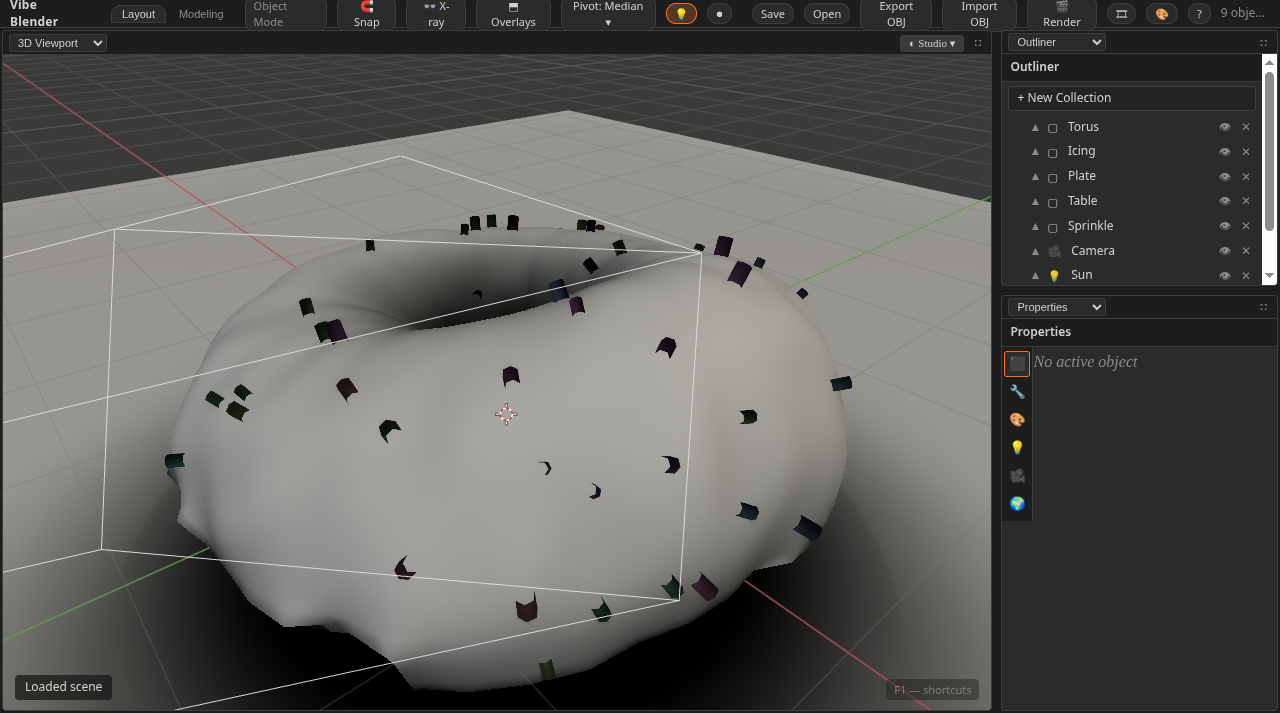
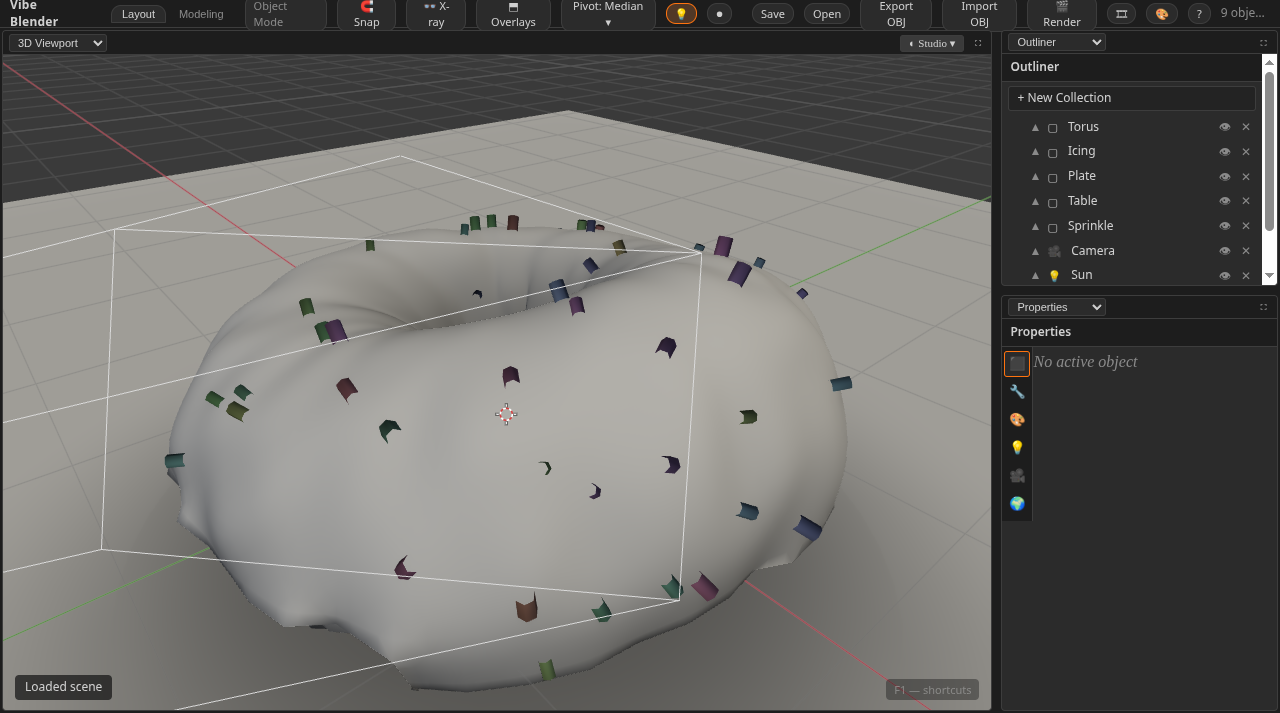
Object AO: trim method menu to 3, calibrate gains to match GTAO
Dithered + Cone removed (looks), Supersample x4 removed (lag). Keepers
renumbered: 0 Baseline (new default), 1 Hemisphere, 2 Exp-weighted, each
with a calibration gain (1.0 / 0.57 / 1.44) tuned on the cube-on-floor rig
so every method and Screen (GTAO) anchor the contact crease at the same
darkness for identical sliders — crease probes 363/366/366 vs GTAO 366.
New e2e check pins the four-way agreement (<30 spread); suites green on
SwiftShader + Vega 7, 678 units.

diff --git a/src/render/passes/aoPass.ts b/src/render/passes/aoPass.ts
@@ -423,6 +423,13 @@ export function objectAoTaps(samples: number): number {
   return Math.max(3, Math.min(16, Math.round(samples / 6)));
 }
 
+// Per-method calibration gains: raw estimator occlusion × gain, tuned on the
+// cube-on-floor reference so the three methods and GTAO agree at the default
+// sliders (see the Object AO entry in CLAUDE.md for the probe numbers).
+const GAIN_BASE = 1.0;
+const GAIN_HEMI = 0.57;
+const GAIN_EXP = 1.44;
+
 // Object AO (Ray's AO-Prototype technique, ported from ao-hybrid.html): instead
 // of hunting occluders in the depth buffer, march a WORLD-SPACE distance field
 // of the scene — per-object voxel SDFs in a 3D atlas (sdfAtlas.ts). The field
@@ -452,6 +459,9 @@ out vec4 outColor;
 
 const vec3 ATLAS = vec3(${SDF_ATLAS_W}.0, ${SDF_ATLAS_H}.0, ${SDF_ATLAS_D}.0);
 #define MAX_TAPS 16
+#define GAIN_BASE ${GAIN_BASE.toFixed(3)}
+#define GAIN_HEMI ${GAIN_HEMI.toFixed(3)}
+#define GAIN_EXP ${GAIN_EXP.toFixed(3)}
 
 vec3 viewPos(vec2 uv, float d) {
   vec4 ndc = vec4(uv * 2.0 - 1.0, d * 2.0 - 1.0, 1.0);
@@ -496,35 +506,20 @@ void basis(vec3 n, out vec3 t, out vec3 b) {
   b = cross(n, t);
 }
 
-// ---- the prototype's six estimators (aoLive), verbatim math ----
-float aoBase(vec3 p, vec3 n) {                 // 0 — linear march (bands; kept as reference)
+// ---- the prototype's estimators (aoLive), trimmed to the keepers ----
+// (Dithered / Cone cut on looks, Supersample x4 on perf, 2026-07-09.)
+// Each method's raw occlusion is scaled by a calibration GAIN so that at the
+// same Radius/Strength sliders all three read the same as each other AND as
+// the Screen (GTAO) mode on the reference cube-on-floor scene.
+float aoBase(vec3 p, vec3 n) {                 // 0 — linear march along the normal
   float occ = 0.0, sca = 1.0;
   for (int i = 0; i < MAX_TAPS; i++) { if (i >= u_taps) break;
     float h = u_bias + u_radius * float(i) / float(u_taps - 1);
     occ += (h - map(p + n * h)) * sca; sca *= 0.6;
   }
-  return clamp(1.0 - u_strength * occ, 0.0, 1.0);
+  return clamp(1.0 - u_strength * GAIN_BASE * occ, 0.0, 1.0);
 }
-float aoDither(vec3 p, vec3 n) {               // 1 — IGN offset: bands → fine grain
-  float r = ign(gl_FragCoord.xy), occ = 0.0, sca = 1.0;
-  for (int i = 0; i < MAX_TAPS; i++) { if (i >= u_taps) break;
-    float h = u_bias + u_radius * (float(i) + r) / float(u_taps);
-    occ += (h - map(p + n * h)) * sca; sca *= 0.82;
-  }
-  return clamp(1.0 - u_strength * occ, 0.0, 1.0);
-}
-float aoCone(vec3 p, vec3 n) {                 // 2 — continuous openness ratio, no taps
-  float res = 1.0, t = u_bias;
-  for (int i = 0; i < MAX_TAPS; i++) { if (i >= u_taps) break;
-    float d = map(p + n * t);
-    res = min(res, 6.0 * d / t);
-    t += clamp(d, 0.01, 0.10);
-    if (t > u_radius) break;
-  }
-  res = clamp(res, 0.0, 1.0);
-  return clamp(1.0 - u_strength * (1.0 - res), 0.0, 1.0);
-}
-float aoHemi(vec3 p, vec3 n) {                 // 3 — golden-angle hemisphere spread
+float aoHemi(vec3 p, vec3 n) {                 // 1 — golden-angle hemisphere spread
   vec3 t, b; basis(n, t, b);
   float a0 = ign(gl_FragCoord.xy) * 6.2831853, occ = 0.0, N = float(u_taps);
   for (int i = 0; i < MAX_TAPS; i++) { if (i >= u_taps) break;
@@ -533,9 +528,9 @@ float aoHemi(vec3 p, vec3 n) {                 // 3 — golden-angle hemisphere 
     float h = u_radius;
     occ += clamp((h - map(p + dir * h)) / h, 0.0, 1.0);
   }
-  return clamp(1.0 - u_strength * occ / N, 0.0, 1.0);
+  return clamp(1.0 - u_strength * GAIN_HEMI * occ / N, 0.0, 1.0);
 }
-float aoExp(vec3 p, vec3 n) {                  // 4 — taps dense near surface, smooth weights
+float aoExp(vec3 p, vec3 n) {                  // 2 — taps dense near surface, smooth weights
   float occ = 0.0, w = 0.0;
   for (int i = 0; i < MAX_TAPS; i++) { if (i >= u_taps) break;
     float fi = float(i) / float(u_taps - 1);
@@ -543,28 +538,13 @@ float aoExp(vec3 p, vec3 n) {                  // 4 — taps dense near surface,
     float wi = exp(-2.5 * fi);
     occ += clamp((h - map(p + n * h)) / max(h, 1e-3), 0.0, 1.0) * wi; w += wi;
   }
-  return clamp(1.0 - u_strength * occ / max(w, 1e-3), 0.0, 1.0);
-}
-float aoSuper(vec3 p, vec3 n) {                // 5 — 4 noisy estimates averaged
-  float sum = 0.0;
-  for (int s = 0; s < 4; s++) {
-    float r = ign(gl_FragCoord.xy + vec2(float(s) * 23.0, float(s) * 41.0)), occ = 0.0, sca = 1.0;
-    for (int i = 0; i < 4; i++) {
-      float h = u_bias + u_radius * (float(i) + r) / 4.0;
-      occ += (h - map(p + n * h)) * sca; sca *= 0.7;
-    }
-    sum += clamp(1.0 - u_strength * occ, 0.0, 1.0);
-  }
-  return sum * 0.25;
+  return clamp(1.0 - u_strength * GAIN_EXP * occ / max(w, 1e-3), 0.0, 1.0);
 }
 
 float aoLive(vec3 p, vec3 n) {
   if (u_method == 0)      return aoBase(p, n);
-  else if (u_method == 1) return aoDither(p, n);
-  else if (u_method == 2) return aoCone(p, n);
-  else if (u_method == 3) return aoHemi(p, n);
-  else if (u_method == 4) return aoExp(p, n);
-  return aoSuper(p, n);
+  else if (u_method == 1) return aoHemi(p, n);
+  return aoExp(p, n);
 }
 
 void main() {

diff --git a/src/render/shadePrefs.ts b/src/render/shadePrefs.ts
@@ -9,14 +9,14 @@
  *  world space, camera-independent by construction. */
 export type AoMode = 'screen' | 'object';
 
-/** The Object-AO estimator menu, ported 1:1 from AO-Prototype/ao-hybrid.html. */
+/** The Object-AO estimator menu (from AO-Prototype/ao-hybrid.html; trimmed
+ *  2026-07-09 — Dithered/Cone cut on looks, Supersample ×4 on perf; the
+ *  keepers are gain-calibrated to match each other and the GTAO look at the
+ *  same slider settings). */
 export const AO_METHODS: { label: string; desc: string }[] = [
-  { label: 'Baseline', desc: '5-tap linear march along the normal — the reference (this is what bands)' },
-  { label: 'Dithered', desc: 'Same march, IGN-jittered per pixel — trades bands for fine grain' },
-  { label: 'Cone', desc: 'Sphere-traces a cone, takes the min openness ratio — continuous, cheap, smooth' },
+  { label: 'Baseline', desc: 'Linear march along the normal — simple and even' },
   { label: 'Hemisphere', desc: 'Golden-angle directions across the hemisphere — smoother and directional' },
   { label: 'Exp-weighted', desc: 'Taps packed near the surface with exponential weights — soft contact falloff' },
-  { label: 'Supersample ×4', desc: '4 noisy marches averaged — brute force, smoothest' },
 ];
 
 export interface ShadePrefs {
@@ -52,7 +52,7 @@ export function defaultShadePrefs(): ShadePrefs {
   return {
     ao: false,
     aoMode: 'screen',
-    aoMethod: 2,   // Cone — the prototype's cheap + smooth default
+    aoMethod: 0,   // Baseline — Ray's preferred estimator from the prototype
     aoRadius: AO_RADIUS_RANGE.default,
     aoStrength: AO_STRENGTH_RANGE.default,
     aoSamples: AO_SAMPLES_RANGE.default,

diff --git a/src/render/shadePrefs.test.ts b/src/render/shadePrefs.test.ts
@@ -20,14 +20,14 @@ describe('shadePrefs persistence', () => {
 
   it('defaults: toggles off, AO tuner at its documented midpoints', () => {
     expect(defaultShadePrefs()).toEqual({
-      ao: false, aoMode: 'screen', aoMethod: 2, aoRadius: 1.2, aoStrength: 0.9, aoSamples: 48, wireOverlay: false, wireHiddenLine: false,
+      ao: false, aoMode: 'screen', aoMethod: 0, aoRadius: 1.2, aoStrength: 0.9, aoSamples: 48, wireOverlay: false, wireHiddenLine: false,
     });
   });
 
   it('round-trips through localStorage (booleans + numbers)', () => {
     shadePrefs.ao = true;
     shadePrefs.aoMode = 'object';
-    shadePrefs.aoMethod = 4;
+    shadePrefs.aoMethod = 2;
     shadePrefs.wireHiddenLine = true;
     shadePrefs.aoRadius = 1.7;
     shadePrefs.aoStrength = 1.6;
@@ -35,7 +35,7 @@ describe('shadePrefs persistence', () => {
     Object.assign(shadePrefs, defaultShadePrefs());
     loadShadePrefs();
     expect(shadePrefs).toEqual({
-      ao: true, aoMode: 'object', aoMethod: 4, aoRadius: 1.7, aoStrength: 1.6, aoSamples: 48, wireOverlay: false, wireHiddenLine: true,
+      ao: true, aoMode: 'object', aoMethod: 2, aoRadius: 1.7, aoStrength: 1.6, aoSamples: 48, wireOverlay: false, wireHiddenLine: true,
     });
   });
 
@@ -57,7 +57,7 @@ describe('shadePrefs persistence', () => {
     localStorage.setItem('vibe-shading-v2', JSON.stringify({ aoMode: 'quantum', aoMethod: 42 }));
     loadShadePrefs();
     expect(shadePrefs.aoMode).toBe('screen');
-    expect(shadePrefs.aoMethod).toBe(5);
+    expect(shadePrefs.aoMethod).toBe(2);
   });
 
   it('malformed storage falls back to defaults', () => {
@@ -71,7 +71,7 @@ describe('shadePrefs persistence', () => {
     localStorage.setItem('vibe-shading-v2', JSON.stringify({ ao: true }));
     loadShadePrefs();
     expect(shadePrefs).toEqual({
-      ao: true, aoMode: 'screen', aoMethod: 2, aoRadius: 1.2, aoStrength: 0.9, aoSamples: 48, wireOverlay: false, wireHiddenLine: false,
+      ao: true, aoMode: 'screen', aoMethod: 0, aoRadius: 1.2, aoStrength: 0.9, aoSamples: 48, wireOverlay: false, wireHiddenLine: false,
     });
   });
 });

diff --git a/CLAUDE.md b/CLAUDE.md
@@ -84,7 +84,7 @@ User runs bypass-permissions mode. Keep ALL work inside this directory; verify s
 - [x] **AO round 4 — view-stability + THE FLOATING CUBE (2026-07-08, late night; commit `[phone redacted]`).** Ray: "ambient shadows don't move when you rotate a camera." Fixed the camera-coupled shader bugs: (1) **radius falloff corrupted the cosine domain** — mix(-1, cos, falloff) pushed near-perpendicular horizons backward, deleting the strongest occlusion at contact creases (now softens the horizon ANGLE toward open); (2) **bilateral filters get a normal-agreement term** — plane distance can't separate two surfaces near their meeting line, so wall AO bled over floor contact shadows for a full blur radius; (3) off-screen marches/blur taps contribute nothing (edge-clamped depth made shadows swim with framing); (4) coplanar band 0.04→0.015 (pre-highp relic, ate crease occlusion). **Plot twist: the comparison scene's cube was FLOATING 0.274 units above the plane** — the "glow underneath / detached shadow" at grazing was CORRECT rendering; scene fixed (cube z=1.0, rests). LESSON FOR THE VIDEO: check the scene geometry before hunting renderer bugs — hours of shader forensics traced to a hovering cube. Tooling built this session (all in scratchpad, patterns in research/): orbit-sweep contact sheet (8 yaws × 3 pitches, one PNG), AO-on/off screenshot differ, in-shader diagnostic maps rendered as the AO term. Orbit sweep clean at all 24 angles; suites green both backends.
 - [x] **Wire overlay corner stubs fixed (2026-07-08, night; commit `c74c6d8`).** Hidden edges poked through at shared silhouette corners: at the corner vertex a back edge's depth equals the surface's, so the overlay's 0.002 NDC bias let a short stub win the depth test. Fix = Blender-style orientation culling: `meshToGpu` edge buffer now carries BOTH adjacent faces' normals per edge vertex (locations 1,2 on the edges VAO; boundary edges repeat n1); `wirePass` `u_hideBack` pushes a vertex to far depth when both faces point away (per-object `u_normalMat`). Applies to overlay + Hidden Line; classic see-through wireframe keeps all edges. Known pre-existing (flagged, not fixed): grid-vs-floor-plane z-fight dashes at z=0 (Blender fades its grid under geometry — punch list), and n-gon triangulation diagonals around holes are real topology, same as Blender.
 - **AO/debugging playbook distilled from the 2026-07-08 saga (for future viewport work):** (1) verify on the REAL GPU — headless Chrome `--enable-gpu` in the exact e2e pipeline; SwiftShader hides driver-precision bugs (lowp samplers!) and passes rigs that fail eyes; (2) separate SUSPECTS with control sweeps — the AO-off orbit sweep instantly re-attributed "black faces" from AO to the studio light rig; (3) orbit-sweep contact sheets (8 yaws × 3 pitches, one image) catch angle-dependent artifacts single-view captures miss; (4) when a shadow "misbehaves", check the SCENE FIRST — hours of shader forensics ended at a cube floating 0.274 above the plane; (5) in-shader diagnostic maps (output the suspect scalar as the AO term, read it off a screenshot) beat readPixels plumbing; (6) screenshot pairs (feature on/off) + Python pixel profiles are the fastest ground truth; Ray's screenshots land in `~/Screenshots/` (waybar 📷 button).
-- [x] **OBJECT AO MODE (2026-07-09)** — Ray's `~/AO-Prototype/ao-hybrid.html` technique integrated as a second AO estimator: shading dropdown → AO Mode **Screen (GTAO) / Object (SDF)** + a 6-entry Method menu (Baseline/Dithered/Cone/Hemisphere/Exp-weighted/Supersample — his `aoLive()` ported verbatim). Architecture: per-object **voxel SDFs** (`src/render/sdf.ts`, 48³ local-space: narrow-band exact point-triangle + chamfer sweep + flood-fill sign, R8-encoded) in a 3D texture atlas (`src/render/sdfAtlas.ts`, 32 slots, cached by the gpuMesh version key → transforms free, only edits re-voxelize, 150 ms rebuild throttle); fullscreen pass in aoPass.ts marches the WORLD-space field (camera-independent — e2e proves crease spread 19/765 across 3 yaws) and reuses the GTAO half-res denoise+upsample chain. **Donut-scene lessons:** (1) Scatter's sprinkle cloud = dozens of sub-voxel islands in ONE mesh → its "SDF" is noisy near-zero garbage that blackened sprinkles + blotched the floor; fixed by a sparse-cloud occluder-exclusion heuristic (tri-area/box-area < 0.05 → casts no AO, still receives) AND a half-voxel debias in the shader's map(). (2) Sprinkles live in the ICING's evaluated mesh (Scatter modifier), not the Sprinkle object — probe the evaluated mesh, not the outliner. Deep links `?aomode=object&aomethod=N`. Method character: Cone (default) subtle+smooth, Hemisphere directional+strong (darkens vertical faces hard at big radius), Dithered/Supersample heavy. Workers: UI selects + 15 e2e checks (2 Opus, 0 fix rounds). 678 units, shading suite green both backends. Screenshots: `research/objao-donut-{off,cone,hemi,gtao}.png`.
+- [x] **OBJECT AO MODE (2026-07-09)** — Ray's `~/AO-Prototype/ao-hybrid.html` technique integrated as a second AO estimator: shading dropdown → AO Mode **Screen (GTAO) / Object (SDF)** + a 6-entry Method menu (Baseline/Dithered/Cone/Hemisphere/Exp-weighted/Supersample — his `aoLive()` ported verbatim). Architecture: per-object **voxel SDFs** (`src/render/sdf.ts`, 48³ local-space: narrow-band exact point-triangle + chamfer sweep + flood-fill sign, R8-encoded) in a 3D texture atlas (`src/render/sdfAtlas.ts`, 32 slots, cached by the gpuMesh version key → transforms free, only edits re-voxelize, 150 ms rebuild throttle); fullscreen pass in aoPass.ts marches the WORLD-space field (camera-independent — e2e proves crease spread 19/765 across 3 yaws) and reuses the GTAO half-res denoise+upsample chain. **Donut-scene lessons:** (1) Scatter's sprinkle cloud = dozens of sub-voxel islands in ONE mesh → its "SDF" is noisy near-zero garbage that blackened sprinkles + blotched the floor; fixed by a sparse-cloud occluder-exclusion heuristic (tri-area/box-area < 0.05 → casts no AO, still receives) AND a half-voxel debias in the shader's map(). (2) Sprinkles live in the ICING's evaluated mesh (Scatter modifier), not the Sprinkle object — probe the evaluated mesh, not the outliner. Deep links `?aomode=object&aomethod=N`. **Method menu trimmed + gain-calibrated same day (Ray's pass):** Dithered/Cone cut on looks, Supersample ×4 cut for lag → keepers are **Baseline (0, default — Ray's prototype favorite), Hemisphere (1), Exp-weighted (2)**, each with a hardcoded shader gain (`GAIN_BASE 1.0 / GAIN_HEMI 0.57 / GAIN_EXP 1.44` in aoPass.ts) calibrated on the cube-on-floor rig so all three AND Screen/GTAO hit the same crease darkness at identical sliders (probe spread 3/765; e2e pins it at <30). Falloff CHARACTER still differs by design (hemi reaches broader/darkens walls). Stored aoMethod indices from the 6-method era clamp to 0..2 on load. Workers: UI selects + 15 e2e checks (2 Opus, 0 fix rounds). 678 units, shading suite green both backends. Screenshots: `research/objao-donut-{off,cone,hemi,gtao}.png`.
 - [ ] **Use & Refine (continues after AO).** Ray drives the app for real work; fix what hurts in small verified batches. Punch list (standing + tonight's): knife tool, sprinkles align-to-normal, UV editor wheel-zoom e2e, ramp widget UI, scriptable node-graph API, dope sheet → full F-curve editor w/ bezier handles, easing presets, generated coords in the BAKE path, bake resolution option, two-Timeline-panes double playback speed guard, OBJ import/export axis conversion (OBJ files are Y-up by convention; Blender rotates on import — we pass through raw since the Z-up switch).
 - [ ] Video production (script, capture, edit) — plan in Notion "Vibe Coding Blender". The fly-through WebM render is a strong beat for the ending.
 - [ ] Punch list (seed — grows from usage): theme-picker toggle-close, M→New Collection single undo, lock-to-view framing distance, proportional default radius, sun shadow maps in Rendered mode, knife tool, parenting, .hdr (RGBE) parsing for World, sprinkles lying flat (align-to-normal tuning), UV Editor wheel-zoom/pan e2e coverage.